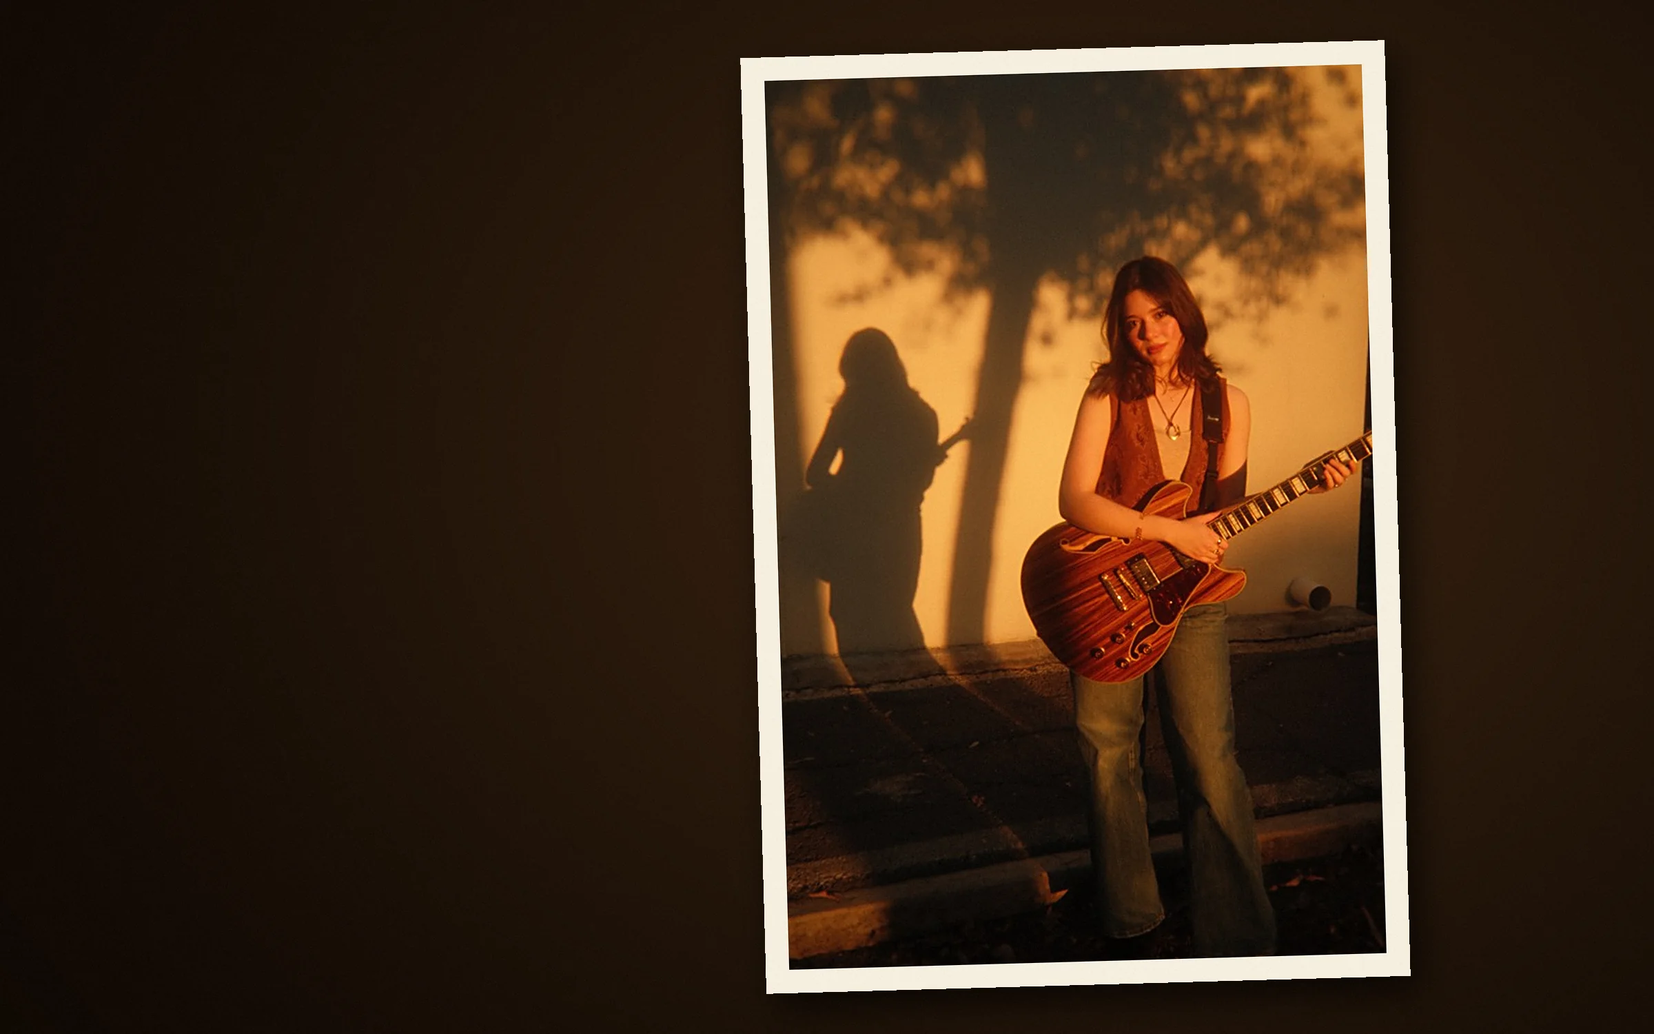
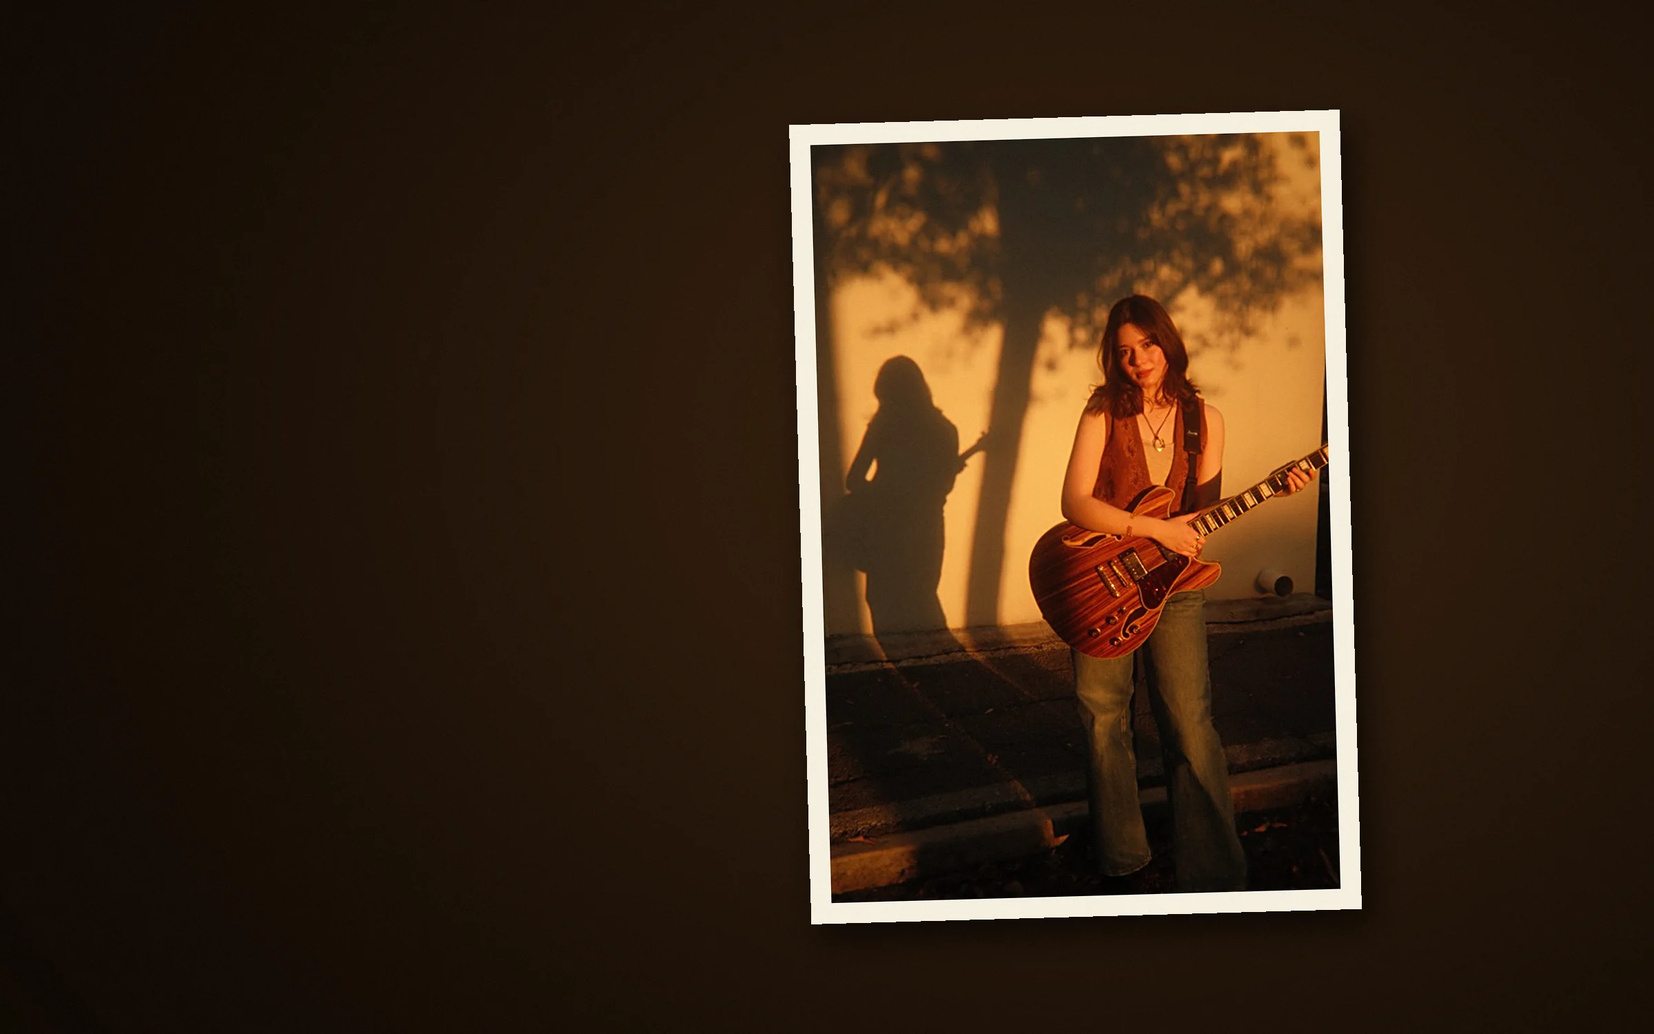
Portada: impresiones completas, tinte cálido y foto completa en celular

Changed region(s): [[0.4375, 0.0307, 0.875, 0.9813]]

diff --git a/index.html b/index.html
@@ -4,7 +4,7 @@
 <meta property="og:title" content="Avelina · cantautora"><meta property="og:description" content="Avelina, cantautora nacida en Sonora y foránea en Monterrey. Canto lo que escribo."><meta property="og:image" content="https://avelina.com.mx/img/compartir.jpg"><meta property="og:url" content="https://avelina.com.mx/"><meta property="og:type" content="website"><meta name="twitter:card" content="summary_large_image">
 <meta name="theme-color" content="#1c356d"><link rel="icon" href="/img/favicon.png"><link rel="canonical" href="https://avelina.com.mx/">
 <link rel="alternate" hreflang="es" href="https://avelina.com.mx/"><link rel="alternate" hreflang="en" href="https://avelina.com.mx/en/">
-<link rel="stylesheet" href="/css/sitio.css?v=dcaf2a75"><script type="application/ld+json">{"@context": "https://schema.org", "@type": "MusicGroup", "name": "Avelina", "alternateName": "Avelina Martinet Molina", "genre": "cantautora", "url": "https://avelina.com.mx/", "image": "https://avelina.com.mx/img/compartir.jpg", "description": "Avelina, cantautora nacida en Sonora y foránea en Monterrey. Canto lo que escribo.", "sameAs": ["https://www.instagram.com/avelinaa.mar/", "https://www.tiktok.com/@avelinamm7", "https://www.youtube.com/@AvelinaMartinetMolina"]}</script>
+<link rel="stylesheet" href="/css/sitio.css?v=af232446"><script type="application/ld+json">{"@context": "https://schema.org", "@type": "MusicGroup", "name": "Avelina", "alternateName": "Avelina Martinet Molina", "genre": "cantautora", "url": "https://avelina.com.mx/", "image": "https://avelina.com.mx/img/compartir.jpg", "description": "Avelina, cantautora nacida en Sonora y foránea en Monterrey. Canto lo que escribo.", "sameAs": ["https://www.instagram.com/avelinaa.mar/", "https://www.tiktok.com/@avelinamm7", "https://www.youtube.com/@AvelinaMartinetMolina"]}</script>
 <script src="/js/sitio.js?v=748ba68a" defer></script></head>
 <body class="p-inicio"><svg width="0" height="0" style="position:absolute" aria-hidden="true"><defs>
 <path id="aro" d="M60 60m-43 0a43 43 0 1 1 86 0a43 43 0 1 1-86 0"/>
@@ -17,7 +17,7 @@
 <nav class="nav-ancho" aria-label="Menú"><a href="/musica/"><span class="vh">Música</span><svg class="biro" style="width:2.388em" aria-hidden="true"><use href="/img/palabras.svg#p578afe0c7"/></svg></a><a href="/videos/"><span class="vh">Videos</span><svg class="biro" style="width:2.371em" aria-hidden="true"><use href="/img/palabras.svg#p56b71e89f"/></svg></a><a href="/diario/"><span class="vh">Diario</span><svg class="biro" style="width:2.196em" aria-hidden="true"><use href="/img/palabras.svg#p8006028d6"/></svg></a><a href="/album/"><span class="vh">Álbum</span><svg class="biro" style="width:2.388em" aria-hidden="true"><use href="/img/palabras.svg#p2c64db893"/></svg></a><a href="/quien-soy/"><span class="vh">Quién soy</span><svg class="biro" style="width:1.961em" aria-hidden="true"><use href="/img/palabras.svg#p59e1f9e47"/></svg> <svg class="biro" style="width:1.073em" aria-hidden="true"><use href="/img/palabras.svg#p55e30b376"/></svg></a><a href="/contacto/"><span class="vh">Contacto</span><svg class="biro" style="width:3.000em" aria-hidden="true"><use href="/img/palabras.svg#pd8a53e1f6"/></svg></a></nav>
 <a class="idioma" href="/en/" hreflang="en" lang="en" aria-label="Read in English"><span class="vh">EN</span><svg class="biro" style="width:1.226em" aria-hidden="true"><use href="/img/palabras.svg#p734a78cd0"/></svg></a></header>
 <main><section class="portada">
-<div class="fotos-portada" aria-hidden="true"><img src="/img/fotos/guitarra-muro.webp" alt="" fetchpriority="high"><img src="/img/fotos/guitarra-luz.webp" alt=""><img src="/img/fotos/guitarra.webp" alt=""><img src="/img/fotos/guitarra-risa.webp" alt=""><img src="/img/fotos/casa.webp" alt=""><img src="/img/fotos/guitarra-sol.webp" alt=""></div>
+<div class="fotos-portada" aria-hidden="true"><img src="/img/fotos/guitarra-muro.webp" srcset="/img/fotos/guitarra-muro-movil.webp 1400w, /img/fotos/guitarra-muro.webp 2400w" sizes="(max-width:700px) 100vw, 2400px" alt="" fetchpriority="high"><img src="/img/fotos/guitarra-luz.webp" srcset="/img/fotos/guitarra-luz-movil.webp 1400w, /img/fotos/guitarra-luz.webp 2400w" sizes="(max-width:700px) 100vw, 2400px" alt=""><img src="/img/fotos/guitarra.webp" alt=""><img src="/img/fotos/guitarra-risa.webp" srcset="/img/fotos/guitarra-risa-movil.webp 1400w, /img/fotos/guitarra-risa.webp 2400w" sizes="(max-width:700px) 100vw, 2400px" alt=""><img src="/img/fotos/casa.webp" alt=""><img src="/img/fotos/guitarra-sol.webp" srcset="/img/fotos/guitarra-sol-movil.webp 1400w, /img/fotos/guitarra-sol.webp 2400w" sizes="(max-width:700px) 100vw, 2400px" alt=""></div>
 <span class="sello-portada" aria-hidden="true"></span><svg class="matasellos m-portada" viewBox="0 0 236 120" aria-hidden="true"><g fill="none" stroke="currentColor" stroke-width="2.2"><circle cx="60" cy="60" r="56"/><circle cx="60" cy="60" r="33"/><path stroke-linecap="round" d="M124 34c13-9 26-9 39 0s26 9 39 0 22-7 30-2M124 60c13-9 26-9 39 0s26 9 39 0 22-7 30-2M124 86c13-9 26-9 39 0s26 9 39 0 22-7 30-2"/></g><text fill="currentColor" font-size="11.5" font-weight="500" letter-spacing=".6"><textPath href="#aro" textLength="262">CANTO LO QUE ESCRIBO · MONTERREY ·</textPath></text><use href="#ave" x="35" y="43" width="50" height="34" color="currentColor"/></svg>
 <a class="detalle d1" href="/diario/" aria-label="Diario"><svg class="ic " aria-hidden="true"><use href="#ave"/></svg><span><span class="vh">Diario</span><svg class="biro" style="width:2.196em" aria-hidden="true"><use href="/img/palabras.svg#p8006028d6"/></svg></span></a>
 <a class="detalle d2" href="/musica/" aria-label="Música"><svg class="ic " aria-hidden="true"><use href="#estrella"/></svg><span><span class="vh">Música</span><svg class="biro" style="width:2.388em" aria-hidden="true"><use href="/img/palabras.svg#p578afe0c7"/></svg></span></a>

diff --git a/en/index.html b/en/index.html
@@ -4,7 +4,7 @@
 <meta property="og:title" content="Avelina · singer-songwriter"><meta property="og:description" content="Avelina, singer-songwriter born in Sonora, Mexico, living in Monterrey. I sing what I write."><meta property="og:image" content="https://avelina.com.mx/img/compartir.jpg"><meta property="og:url" content="https://avelina.com.mx/en/"><meta property="og:type" content="website"><meta name="twitter:card" content="summary_large_image">
 <meta name="theme-color" content="#1c356d"><link rel="icon" href="/img/favicon.png"><link rel="canonical" href="https://avelina.com.mx/en/">
 <link rel="alternate" hreflang="es" href="https://avelina.com.mx/"><link rel="alternate" hreflang="en" href="https://avelina.com.mx/en/">
-<link rel="stylesheet" href="/css/sitio.css?v=dcaf2a75"><script type="application/ld+json">{"@context": "https://schema.org", "@type": "MusicGroup", "name": "Avelina", "alternateName": "Avelina Martinet Molina", "genre": "cantautora", "url": "https://avelina.com.mx/", "image": "https://avelina.com.mx/img/compartir.jpg", "description": "Avelina, cantautora nacida en Sonora y foránea en Monterrey. Canto lo que escribo.", "sameAs": ["https://www.instagram.com/avelinaa.mar/", "https://www.tiktok.com/@avelinamm7", "https://www.youtube.com/@AvelinaMartinetMolina"]}</script>
+<link rel="stylesheet" href="/css/sitio.css?v=af232446"><script type="application/ld+json">{"@context": "https://schema.org", "@type": "MusicGroup", "name": "Avelina", "alternateName": "Avelina Martinet Molina", "genre": "cantautora", "url": "https://avelina.com.mx/", "image": "https://avelina.com.mx/img/compartir.jpg", "description": "Avelina, cantautora nacida en Sonora y foránea en Monterrey. Canto lo que escribo.", "sameAs": ["https://www.instagram.com/avelinaa.mar/", "https://www.tiktok.com/@avelinamm7", "https://www.youtube.com/@AvelinaMartinetMolina"]}</script>
 <script src="/js/sitio.js?v=748ba68a" defer></script></head>
 <body class="p-inicio"><svg width="0" height="0" style="position:absolute" aria-hidden="true"><defs>
 <path id="aro" d="M60 60m-43 0a43 43 0 1 1 86 0a43 43 0 1 1-86 0"/>
@@ -17,7 +17,7 @@
 <nav class="nav-ancho" aria-label="Menu"><a href="/en/music/"><span class="vh">Music</span><svg class="biro" style="width:2.012em" aria-hidden="true"><use href="/img/palabras.svg#p131260cbf"/></svg></a><a href="/en/videos/"><span class="vh">Videos</span><svg class="biro" style="width:2.371em" aria-hidden="true"><use href="/img/palabras.svg#p56b71e89f"/></svg></a><a href="/en/diary/"><span class="vh">Diary</span><svg class="biro" style="width:1.912em" aria-hidden="true"><use href="/img/palabras.svg#pefd742a16"/></svg></a><a href="/en/album/"><span class="vh">Album</span><svg class="biro" style="width:2.388em" aria-hidden="true"><use href="/img/palabras.svg#pdfb4c9a14"/></svg></a><a href="/en/about/"><span class="vh">About</span><svg class="biro" style="width:2.196em" aria-hidden="true"><use href="/img/palabras.svg#p6b21fb791"/></svg></a><a href="/en/contact/"><span class="vh">Contact</span><svg class="biro" style="width:2.584em" aria-hidden="true"><use href="/img/palabras.svg#pb37456c45"/></svg></a></nav>
 <a class="idioma" href="/" hreflang="es" lang="es" aria-label="Leer en español"><span class="vh">ES</span><svg class="biro" style="width:0.976em" aria-hidden="true"><use href="/img/palabras.svg#p9debabbaa"/></svg></a></header>
 <main><section class="portada">
-<div class="fotos-portada" aria-hidden="true"><img src="/img/fotos/guitarra-muro.webp" alt="" fetchpriority="high"><img src="/img/fotos/guitarra-luz.webp" alt=""><img src="/img/fotos/guitarra.webp" alt=""><img src="/img/fotos/guitarra-risa.webp" alt=""><img src="/img/fotos/casa.webp" alt=""><img src="/img/fotos/guitarra-sol.webp" alt=""></div>
+<div class="fotos-portada" aria-hidden="true"><img src="/img/fotos/guitarra-muro.webp" srcset="/img/fotos/guitarra-muro-movil.webp 1400w, /img/fotos/guitarra-muro.webp 2400w" sizes="(max-width:700px) 100vw, 2400px" alt="" fetchpriority="high"><img src="/img/fotos/guitarra-luz.webp" srcset="/img/fotos/guitarra-luz-movil.webp 1400w, /img/fotos/guitarra-luz.webp 2400w" sizes="(max-width:700px) 100vw, 2400px" alt=""><img src="/img/fotos/guitarra.webp" alt=""><img src="/img/fotos/guitarra-risa.webp" srcset="/img/fotos/guitarra-risa-movil.webp 1400w, /img/fotos/guitarra-risa.webp 2400w" sizes="(max-width:700px) 100vw, 2400px" alt=""><img src="/img/fotos/casa.webp" alt=""><img src="/img/fotos/guitarra-sol.webp" srcset="/img/fotos/guitarra-sol-movil.webp 1400w, /img/fotos/guitarra-sol.webp 2400w" sizes="(max-width:700px) 100vw, 2400px" alt=""></div>
 <span class="sello-portada" aria-hidden="true"></span><svg class="matasellos m-portada" viewBox="0 0 236 120" aria-hidden="true"><g fill="none" stroke="currentColor" stroke-width="2.2"><circle cx="60" cy="60" r="56"/><circle cx="60" cy="60" r="33"/><path stroke-linecap="round" d="M124 34c13-9 26-9 39 0s26 9 39 0 22-7 30-2M124 60c13-9 26-9 39 0s26 9 39 0 22-7 30-2M124 86c13-9 26-9 39 0s26 9 39 0 22-7 30-2"/></g><text fill="currentColor" font-size="11.5" font-weight="500" letter-spacing=".6"><textPath href="#aro" textLength="262">I SING WHAT I WRITE · MONTERREY ·</textPath></text><use href="#ave" x="35" y="43" width="50" height="34" color="currentColor"/></svg>
 <a class="detalle d1" href="/en/diary/" aria-label="Diary"><svg class="ic " aria-hidden="true"><use href="#ave"/></svg><span><span class="vh">Diary</span><svg class="biro" style="width:1.912em" aria-hidden="true"><use href="/img/palabras.svg#pefd742a16"/></svg></span></a>
 <a class="detalle d2" href="/en/music/" aria-label="Music"><svg class="ic " aria-hidden="true"><use href="#estrella"/></svg><span><span class="vh">Music</span><svg class="biro" style="width:2.012em" aria-hidden="true"><use href="/img/palabras.svg#p131260cbf"/></svg></span></a>

diff --git a/css/sitio.css b/css/sitio.css
@@ -264,3 +264,7 @@ footer .ancho::before{content:"";display:block;width:84px;height:84px;margin:0 a
 @media(max-width:560px){.portada{margin:6px;min-height:calc(100svh - 12px)}.fotos-portada img:nth-child(1),.fotos-portada img:nth-child(2),.fotos-portada img:nth-child(4),.fotos-portada img:nth-child(6){object-position:65% 50%}.fotos-portada img:nth-child(3){object-position:40% 50%}.fotos-portada img:nth-child(5){object-position:82% 60%}.companera{width:66px}.obra{grid-template-columns:1.25fr 1fr;padding:8px}.obra-v{grid-template-columns:1fr}.reverso{padding-top:46px;margin-left:8px;padding-left:8px}.reverso::before{display:none}.reverso .cedula{font-size:.92rem}}
 .primera .vuelo{top:104px}
 @media(max-width:900px){.primera .vuelo{display:none}}
+.portada::after{background:linear-gradient(to top,#160e0ae0 0,#160e0a70 30%,#160e0a00 58%),linear-gradient(to bottom,#160e0a80,#160e0a00 20%)}
+.fotos-portada img{object-position:50% 50%}.fotos-portada img:nth-child(1),.fotos-portada img:nth-child(2),.fotos-portada img:nth-child(4),.fotos-portada img:nth-child(6){object-position:50% 50%}
+.sello-portada{right:clamp(84px,8.6vw,132px)}.m-portada{right:clamp(130px,14.5vw,216px)}
+@media(max-width:700px){.fotos-portada img:nth-child(1),.fotos-portada img:nth-child(2),.fotos-portada img:nth-child(4),.fotos-portada img:nth-child(6){object-position:50% 22%}.sello-portada{right:74px}.m-portada{right:112px}}

diff --git a/en/privacy/index.html b/en/privacy/index.html
@@ -4,7 +4,7 @@
 <meta property="og:title" content="Privacy notice · Avelina"><meta property="og:description" content="Avelina, singer-songwriter born in Sonora, Mexico, living in Monterrey. I sing what I write."><meta property="og:image" content="https://avelina.com.mx/img/compartir.jpg"><meta property="og:url" content="https://avelina.com.mx/en/privacy/"><meta property="og:type" content="website"><meta name="twitter:card" content="summary_large_image">
 <meta name="theme-color" content="#1c356d"><link rel="icon" href="/img/favicon.png"><link rel="canonical" href="https://avelina.com.mx/en/privacy/">
 <link rel="alternate" hreflang="es" href="https://avelina.com.mx/privacidad/"><link rel="alternate" hreflang="en" href="https://avelina.com.mx/en/privacy/">
-<link rel="stylesheet" href="/css/sitio.css?v=dcaf2a75">
+<link rel="stylesheet" href="/css/sitio.css?v=af232446">
 <script src="/js/sitio.js?v=748ba68a" defer></script></head>
 <body class="p-privacidad"><svg width="0" height="0" style="position:absolute" aria-hidden="true"><defs>
 <path id="aro" d="M60 60m-43 0a43 43 0 1 1 86 0a43 43 0 1 1-86 0"/>

diff --git a/privacidad/index.html b/privacidad/index.html
@@ -4,7 +4,7 @@
 <meta property="og:title" content="Aviso de privacidad · Avelina"><meta property="og:description" content="Avelina, cantautora nacida en Sonora y foránea en Monterrey. Canto lo que escribo."><meta property="og:image" content="https://avelina.com.mx/img/compartir.jpg"><meta property="og:url" content="https://avelina.com.mx/privacidad/"><meta property="og:type" content="website"><meta name="twitter:card" content="summary_large_image">
 <meta name="theme-color" content="#1c356d"><link rel="icon" href="/img/favicon.png"><link rel="canonical" href="https://avelina.com.mx/privacidad/">
 <link rel="alternate" hreflang="es" href="https://avelina.com.mx/privacidad/"><link rel="alternate" hreflang="en" href="https://avelina.com.mx/en/privacy/">
-<link rel="stylesheet" href="/css/sitio.css?v=dcaf2a75">
+<link rel="stylesheet" href="/css/sitio.css?v=af232446">
 <script src="/js/sitio.js?v=748ba68a" defer></script></head>
 <body class="p-privacidad"><svg width="0" height="0" style="position:absolute" aria-hidden="true"><defs>
 <path id="aro" d="M60 60m-43 0a43 43 0 1 1 86 0a43 43 0 1 1-86 0"/>

diff --git a/en/videos/index.html b/en/videos/index.html
@@ -4,7 +4,7 @@
 <meta property="og:title" content="My chest of letters · Avelina"><meta property="og:description" content="Avelina, singer-songwriter born in Sonora, Mexico, living in Monterrey. I sing what I write."><meta property="og:image" content="https://avelina.com.mx/img/compartir.jpg"><meta property="og:url" content="https://avelina.com.mx/en/videos/"><meta property="og:type" content="website"><meta name="twitter:card" content="summary_large_image">
 <meta name="theme-color" content="#1c356d"><link rel="icon" href="/img/favicon.png"><link rel="canonical" href="https://avelina.com.mx/en/videos/">
 <link rel="alternate" hreflang="es" href="https://avelina.com.mx/videos/"><link rel="alternate" hreflang="en" href="https://avelina.com.mx/en/videos/">
-<link rel="stylesheet" href="/css/sitio.css?v=dcaf2a75">
+<link rel="stylesheet" href="/css/sitio.css?v=af232446">
 <script src="/js/sitio.js?v=748ba68a" defer></script></head>
 <body class="p-videos"><svg width="0" height="0" style="position:absolute" aria-hidden="true"><defs>
 <path id="aro" d="M60 60m-43 0a43 43 0 1 1 86 0a43 43 0 1 1-86 0"/>

diff --git a/en/contact/index.html b/en/contact/index.html
@@ -4,7 +4,7 @@
 <meta property="og:title" content="Contact · Avelina"><meta property="og:description" content="Avelina, singer-songwriter born in Sonora, Mexico, living in Monterrey. I sing what I write."><meta property="og:image" content="https://avelina.com.mx/img/compartir.jpg"><meta property="og:url" content="https://avelina.com.mx/en/contact/"><meta property="og:type" content="website"><meta name="twitter:card" content="summary_large_image">
 <meta name="theme-color" content="#1c356d"><link rel="icon" href="/img/favicon.png"><link rel="canonical" href="https://avelina.com.mx/en/contact/">
 <link rel="alternate" hreflang="es" href="https://avelina.com.mx/contacto/"><link rel="alternate" hreflang="en" href="https://avelina.com.mx/en/contact/">
-<link rel="stylesheet" href="/css/sitio.css?v=dcaf2a75">
+<link rel="stylesheet" href="/css/sitio.css?v=af232446">
 <script src="/js/sitio.js?v=748ba68a" defer></script></head>
 <body class="p-contacto"><svg width="0" height="0" style="position:absolute" aria-hidden="true"><defs>
 <path id="aro" d="M60 60m-43 0a43 43 0 1 1 86 0a43 43 0 1 1-86 0"/>

diff --git a/en/about/index.html b/en/about/index.html
@@ -4,7 +4,7 @@
 <meta property="og:title" content="About · Avelina"><meta property="og:description" content="Avelina, singer-songwriter born in Sonora, Mexico, living in Monterrey. I sing what I write."><meta property="og:image" content="https://avelina.com.mx/img/compartir.jpg"><meta property="og:url" content="https://avelina.com.mx/en/about/"><meta property="og:type" content="website"><meta name="twitter:card" content="summary_large_image">
 <meta name="theme-color" content="#1c356d"><link rel="icon" href="/img/favicon.png"><link rel="canonical" href="https://avelina.com.mx/en/about/">
 <link rel="alternate" hreflang="es" href="https://avelina.com.mx/quien-soy/"><link rel="alternate" hreflang="en" href="https://avelina.com.mx/en/about/">
-<link rel="stylesheet" href="/css/sitio.css?v=dcaf2a75">
+<link rel="stylesheet" href="/css/sitio.css?v=af232446">
 <script src="/js/sitio.js?v=748ba68a" defer></script></head>
 <body class="p-quien"><svg width="0" height="0" style="position:absolute" aria-hidden="true"><defs>
 <path id="aro" d="M60 60m-43 0a43 43 0 1 1 86 0a43 43 0 1 1-86 0"/>

diff --git a/videos/index.html b/videos/index.html
@@ -4,7 +4,7 @@
 <meta property="og:title" content="Mi baúl de cartas · Avelina"><meta property="og:description" content="Avelina, cantautora nacida en Sonora y foránea en Monterrey. Canto lo que escribo."><meta property="og:image" content="https://avelina.com.mx/img/compartir.jpg"><meta property="og:url" content="https://avelina.com.mx/videos/"><meta property="og:type" content="website"><meta name="twitter:card" content="summary_large_image">
 <meta name="theme-color" content="#1c356d"><link rel="icon" href="/img/favicon.png"><link rel="canonical" href="https://avelina.com.mx/videos/">
 <link rel="alternate" hreflang="es" href="https://avelina.com.mx/videos/"><link rel="alternate" hreflang="en" href="https://avelina.com.mx/en/videos/">
-<link rel="stylesheet" href="/css/sitio.css?v=dcaf2a75">
+<link rel="stylesheet" href="/css/sitio.css?v=af232446">
 <script src="/js/sitio.js?v=748ba68a" defer></script></head>
 <body class="p-videos"><svg width="0" height="0" style="position:absolute" aria-hidden="true"><defs>
 <path id="aro" d="M60 60m-43 0a43 43 0 1 1 86 0a43 43 0 1 1-86 0"/>

diff --git a/contacto/index.html b/contacto/index.html
@@ -4,7 +4,7 @@
 <meta property="og:title" content="Contacto · Avelina"><meta property="og:description" content="Avelina, cantautora nacida en Sonora y foránea en Monterrey. Canto lo que escribo."><meta property="og:image" content="https://avelina.com.mx/img/compartir.jpg"><meta property="og:url" content="https://avelina.com.mx/contacto/"><meta property="og:type" content="website"><meta name="twitter:card" content="summary_large_image">
 <meta name="theme-color" content="#1c356d"><link rel="icon" href="/img/favicon.png"><link rel="canonical" href="https://avelina.com.mx/contacto/">
 <link rel="alternate" hreflang="es" href="https://avelina.com.mx/contacto/"><link rel="alternate" hreflang="en" href="https://avelina.com.mx/en/contact/">
-<link rel="stylesheet" href="/css/sitio.css?v=dcaf2a75">
+<link rel="stylesheet" href="/css/sitio.css?v=af232446">
 <script src="/js/sitio.js?v=748ba68a" defer></script></head>
 <body class="p-contacto"><svg width="0" height="0" style="position:absolute" aria-hidden="true"><defs>
 <path id="aro" d="M60 60m-43 0a43 43 0 1 1 86 0a43 43 0 1 1-86 0"/>

diff --git a/en/diary/index.html b/en/diary/index.html
@@ -4,7 +4,7 @@
 <meta property="og:title" content="Diary · Avelina"><meta property="og:description" content="Avelina, singer-songwriter born in Sonora, Mexico, living in Monterrey. I sing what I write."><meta property="og:image" content="https://avelina.com.mx/img/compartir.jpg"><meta property="og:url" content="https://avelina.com.mx/en/diary/"><meta property="og:type" content="website"><meta name="twitter:card" content="summary_large_image">
 <meta name="theme-color" content="#1c356d"><link rel="icon" href="/img/favicon.png"><link rel="canonical" href="https://avelina.com.mx/en/diary/">
 <link rel="alternate" hreflang="es" href="https://avelina.com.mx/diario/"><link rel="alternate" hreflang="en" href="https://avelina.com.mx/en/diary/">
-<link rel="stylesheet" href="/css/sitio.css?v=dcaf2a75">
+<link rel="stylesheet" href="/css/sitio.css?v=af232446">
 <script src="/js/sitio.js?v=748ba68a" defer></script></head>
 <body class="p-diario"><svg width="0" height="0" style="position:absolute" aria-hidden="true"><defs>
 <path id="aro" d="M60 60m-43 0a43 43 0 1 1 86 0a43 43 0 1 1-86 0"/>

diff --git a/en/music/index.html b/en/music/index.html
@@ -4,7 +4,7 @@
 <meta property="og:title" content="Music · Avelina"><meta property="og:description" content="Avelina, singer-songwriter born in Sonora, Mexico, living in Monterrey. I sing what I write."><meta property="og:image" content="https://avelina.com.mx/img/compartir.jpg"><meta property="og:url" content="https://avelina.com.mx/en/music/"><meta property="og:type" content="website"><meta name="twitter:card" content="summary_large_image">
 <meta name="theme-color" content="#1c356d"><link rel="icon" href="/img/favicon.png"><link rel="canonical" href="https://avelina.com.mx/en/music/">
 <link rel="alternate" hreflang="es" href="https://avelina.com.mx/musica/"><link rel="alternate" hreflang="en" href="https://avelina.com.mx/en/music/">
-<link rel="stylesheet" href="/css/sitio.css?v=dcaf2a75">
+<link rel="stylesheet" href="/css/sitio.css?v=af232446">
 <script src="/js/sitio.js?v=748ba68a" defer></script></head>
 <body class="p-musica"><svg width="0" height="0" style="position:absolute" aria-hidden="true"><defs>
 <path id="aro" d="M60 60m-43 0a43 43 0 1 1 86 0a43 43 0 1 1-86 0"/>
